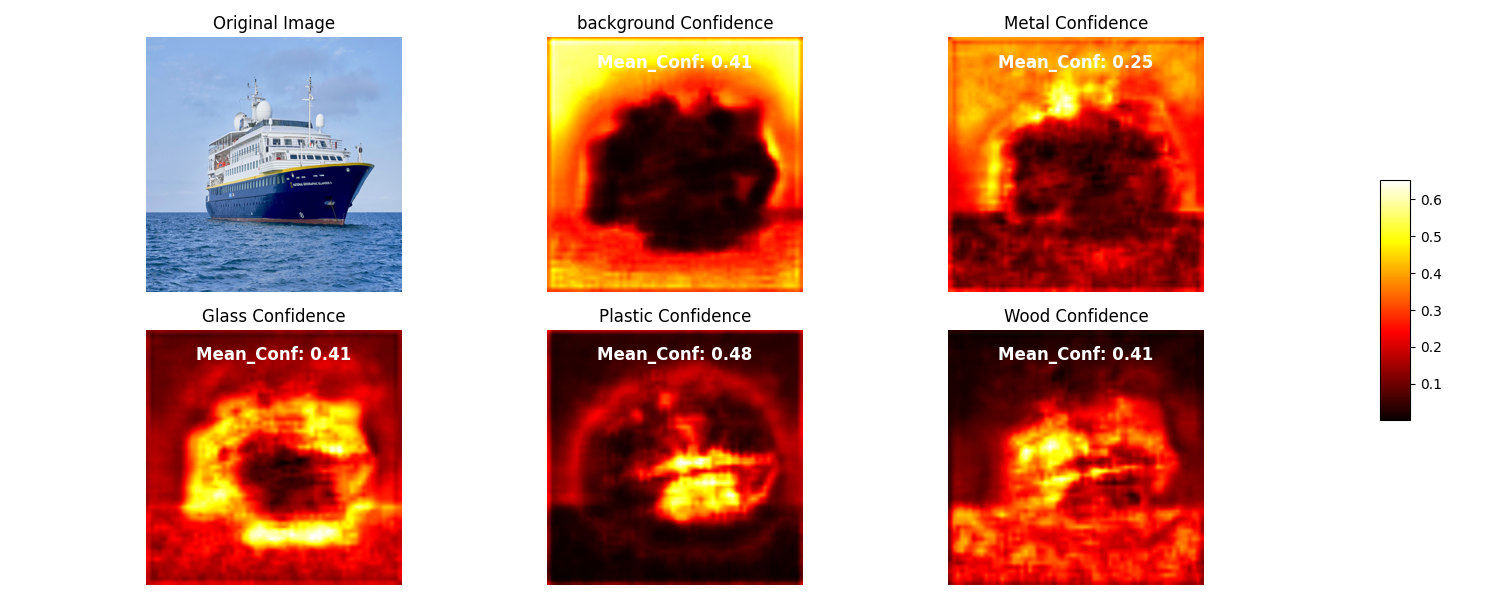
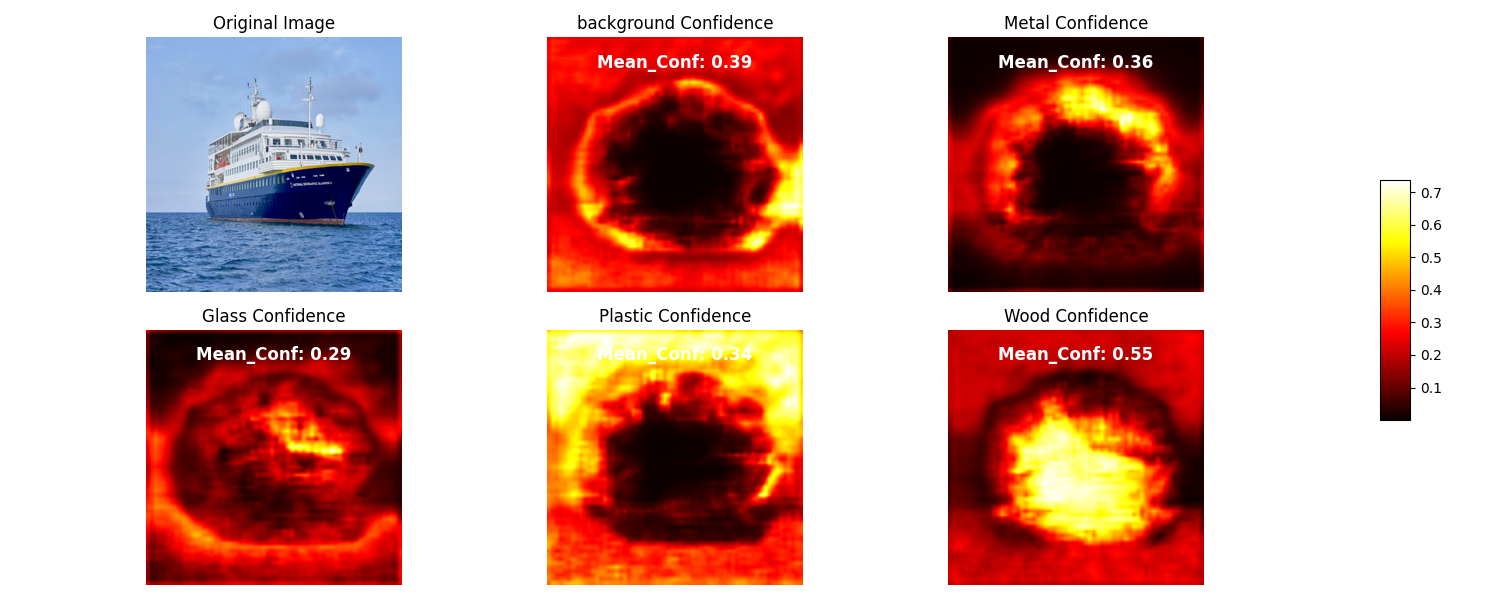
loss function

diff --git a/src/dlcv/utils.py b/src/dlcv/utils.py
@@ -526,8 +526,8 @@ def predict_and_visualize_with_edges(model, image_path, device, weights_path, sa
     }
 
     # Initialize variables for calculating average confidence scores
-    total_pixels_per_class = np.zeros(len(class_names))
-    total_confidence_per_class = np.zeros(len(class_names))
+    # total_pixels_per_class = np.zeros(len(class_names))
+    # total_confidence_per_class = np.zeros(len(class_names))
 
     # Fill in the predicted regions with the corresponding colors based on confidence
     for class_idx, color in class_colors.items():
@@ -535,16 +535,16 @@ def predict_and_visualize_with_edges(model, image_path, device, weights_path, sa
         colored_segmentation[mask] = color
 
         # Sum up the confidence scores for each class
-        total_pixels_per_class[class_idx] = mask.sum()  # Count the pixels for each class
-        total_confidence_per_class[class_idx] = output_softmax[class_idx][mask].sum()  # Sum of confidence scores for this class
+        # total_pixels_per_class[class_idx] = mask.sum()  # Count the pixels for each class
+        # total_confidence_per_class[class_idx] = output_softmax[class_idx][mask].sum()  # Sum of confidence scores for this class
 
     # Calculate and print the average confidence for each class
-    avg_confidence_per_class = total_confidence_per_class / total_pixels_per_class
-    for class_idx, class_name in enumerate(class_names):
-        if total_pixels_per_class[class_idx] > 0:  # Avoid division by zero
-            print(f"Class '{class_name}': Average Confidence = {avg_confidence_per_class[class_idx]:.4f}")
-        else:
-            print(f"Class '{class_name}': No pixels of this class in the image.")
+    # avg_confidence_per_class = total_confidence_per_class / total_pixels_per_class
+    # for class_idx, class_name in enumerate(class_names):
+    #     if total_pixels_per_class[class_idx] > 0:  # Avoid division by zero
+    #         print(f"Class '{class_name}': Average Confidence = {avg_confidence_per_class[class_idx]:.4f}")
+    #     else:
+    #         print(f"Class '{class_name}': No pixels of this class in the image.")
     
     # Create a final visualization with the Canny edges overlaid on the colored segmentation
     colored_segmentation_with_edges = colored_segmentation.copy()
@@ -656,40 +656,3 @@ def write_results_to_csv(file_path, train_losses, test_losses, test_ious):
         writer.writerow(['Epoch', 'Train Loss', 'Test Loss', 'Test IoU'])
         for epoch in range(len(train_losses)):
             writer.writerow([epoch + 1, train_losses[epoch], test_losses[epoch], test_ious[epoch]])
-
-def plot_multiple_losses_and_accuracies(model_data_list):
-    """
-    Plots training and testing losses and accuracies for multiple models.
-
-    Args:
-        model_data_list (list of dict): A list of dictionaries containing the following keys:
-            - 'name' (str): The name of the model (for the legend)
-            - 'train_losses' (list): Training losses per epoch
-            - 'test_losses' (list): Testing losses per epoch
-            - 'test_accuracies' (list): Testing accuracies per epoch
-    """
-    # Plotting losses
-    plt.figure(figsize=(10, 5))
-    for model_data in model_data_list:
-        plt.plot(model_data['train_losses'], label=f"{model_data['name']} Train Loss")
-        plt.plot(model_data['test_losses'], label=f"{model_data['name']} Test Loss")
-
-    plt.xlabel('Epoch')
-    plt.ylabel('Loss')
-    plt.title('Training and Testing Losses')
-    plt.legend()
-    plt.grid(True)
-    plt.show()
-
-    # Plotting accuracies
-    plt.figure(figsize=(10, 5))
-    for model_data in model_data_list:
-        plt.plot(model_data['test_accuracies'], label=f"{model_data['name']} Test Accuracy")
-
-    plt.xlabel('Epoch')
-    plt.ylabel('Accuracy')
-    plt.title('Test Accuracy')
-    plt.legend()
-    plt.grid(True)
-    plt.show()
-    pass # ToDo

diff --git a/src/dlcv/visualize.py b/src/dlcv/visualize.py
@@ -27,8 +27,8 @@ def read_csv_results(file_path):
     return epochs, train_losses, test_losses, test_ious
 
 # Manually specify the files in order
-csv_file_0_50 = cwd + '/src/dlcv/results/Semantic_Segmentation_50Epochs_Unet.csv'  
-csv_file_51_100 = cwd + '/src/dlcv/results/Semantic_Segmentation_100Epochs_Unet.csv'  
+csv_file_0_50 = cwd + '/src/dlcv/results/Semantic_Segmentation_50Epochs_Deeplabv3plus.csv'  
+csv_file_51_100 = cwd + '/src/dlcv/results/Semantic_Segmentation_100Epochs_Deeplabv3plus.csv'  
 
 # Read results from both CSV files
 combined_epochs, combined_train_losses, combined_test_losses, combined_test_ious = [], [], [], []
@@ -57,7 +57,7 @@ plt.figure(figsize=(10, 6))
 plt.plot(combined_epochs, combined_train_losses, label='Train Loss', color='blue')
 plt.xlabel('Epochs')
 plt.ylabel('Train Loss')
-plt.title('Training Loss- U-Net with Mobilenet')
+plt.title('Training Loss- DeeplabV3+ with Mobilenet')
 plt.ylim([-2, 2])
 plt.legend(loc='best')
 plt.show()
@@ -67,7 +67,7 @@ plt.figure(figsize=(10, 6))
 plt.plot(combined_epochs, combined_test_losses, label='Test Loss', color='red')
 plt.xlabel('Epochs')
 plt.ylabel('Test Loss')
-plt.title('Test Loss- U-Net with Mobilenet')
+plt.title('Test Loss- DeeplabV3+ with Mobilenet')
 plt.ylim([-2, 2])
 plt.legend(loc='best')
 plt.show()
@@ -77,6 +77,6 @@ plt.figure(figsize=(10, 6))
 plt.plot(combined_epochs, combined_test_ious, label='Test IoU', color='green')
 plt.xlabel('Epochs')
 plt.ylabel('Test IoU')
-plt.title('Material_IoU- U-Net with Mobilenet')
+plt.title('Material_IoU- DeeplabV3+ with Mobilenet')
 plt.legend(loc='best')
 plt.show()

diff --git a/src/dlcv/train.py b/src/dlcv/train.py
@@ -27,16 +27,16 @@ def sum(a, b):
     return x
 
 def main(cfg, mode, image_path=None):
-    print(f"Using configuration file: {config_file_path}")
-    print("Configuration for this run:")
-    print(cfg.dump())
+    # print(f"Using configuration file: {config_file_path}")
+    # print("Configuration for this run:")
+    # print(cfg.dump())
 
     if torch.cuda.is_available() and not cfg.MISC.NO_CUDA:
         device = torch.device("cuda")
     else:
         device = torch.device("cpu")
 
-    print(f"Device: {device}")
+    # print(f"Device: {device}")
 
     # torch.backends.cudnn.benchmark = False  # Disable cuDNN benchmarking
     # torch.backends.cudnn.deterministic = True
@@ -105,7 +105,7 @@ def main(cfg, mode, image_path=None):
             if cfg.MODEL.MODEL == 'Deeplabv3Plus':
                 # Train Deeplabv3+ model
                 train_losses, test_losses, test_ious_material = train_and_evaluate_model(
-                    model, train_loader, test_loader, combined_loss, optimizer, 
+                    model, train_loader, test_loader, cross_entropy_4d, optimizer, 
                     cfg.TRAIN.NUM_EPOCHS, device, scheduler=scheduler, early_stopping=cfg.TRAIN.EARLY_STOPPING
                 )
             elif cfg.MODEL.MODEL == 'U-Net':
